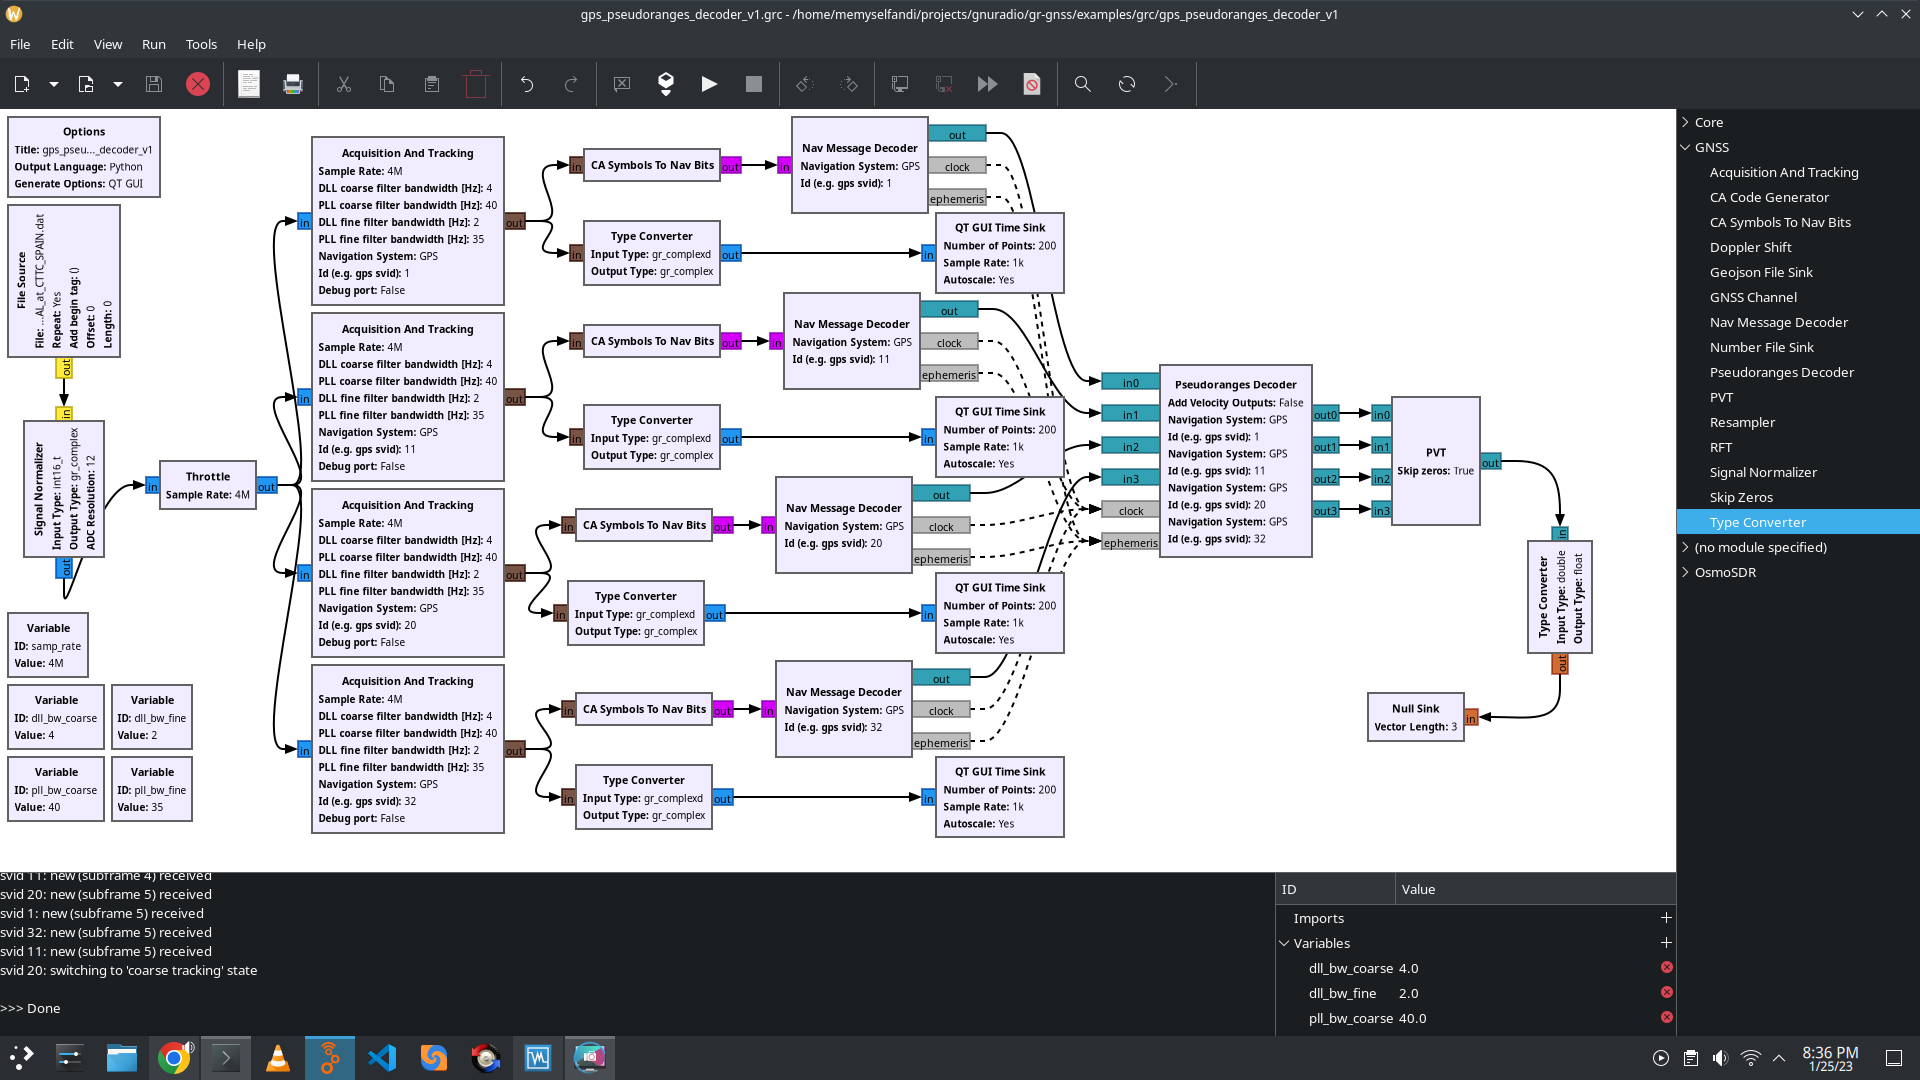
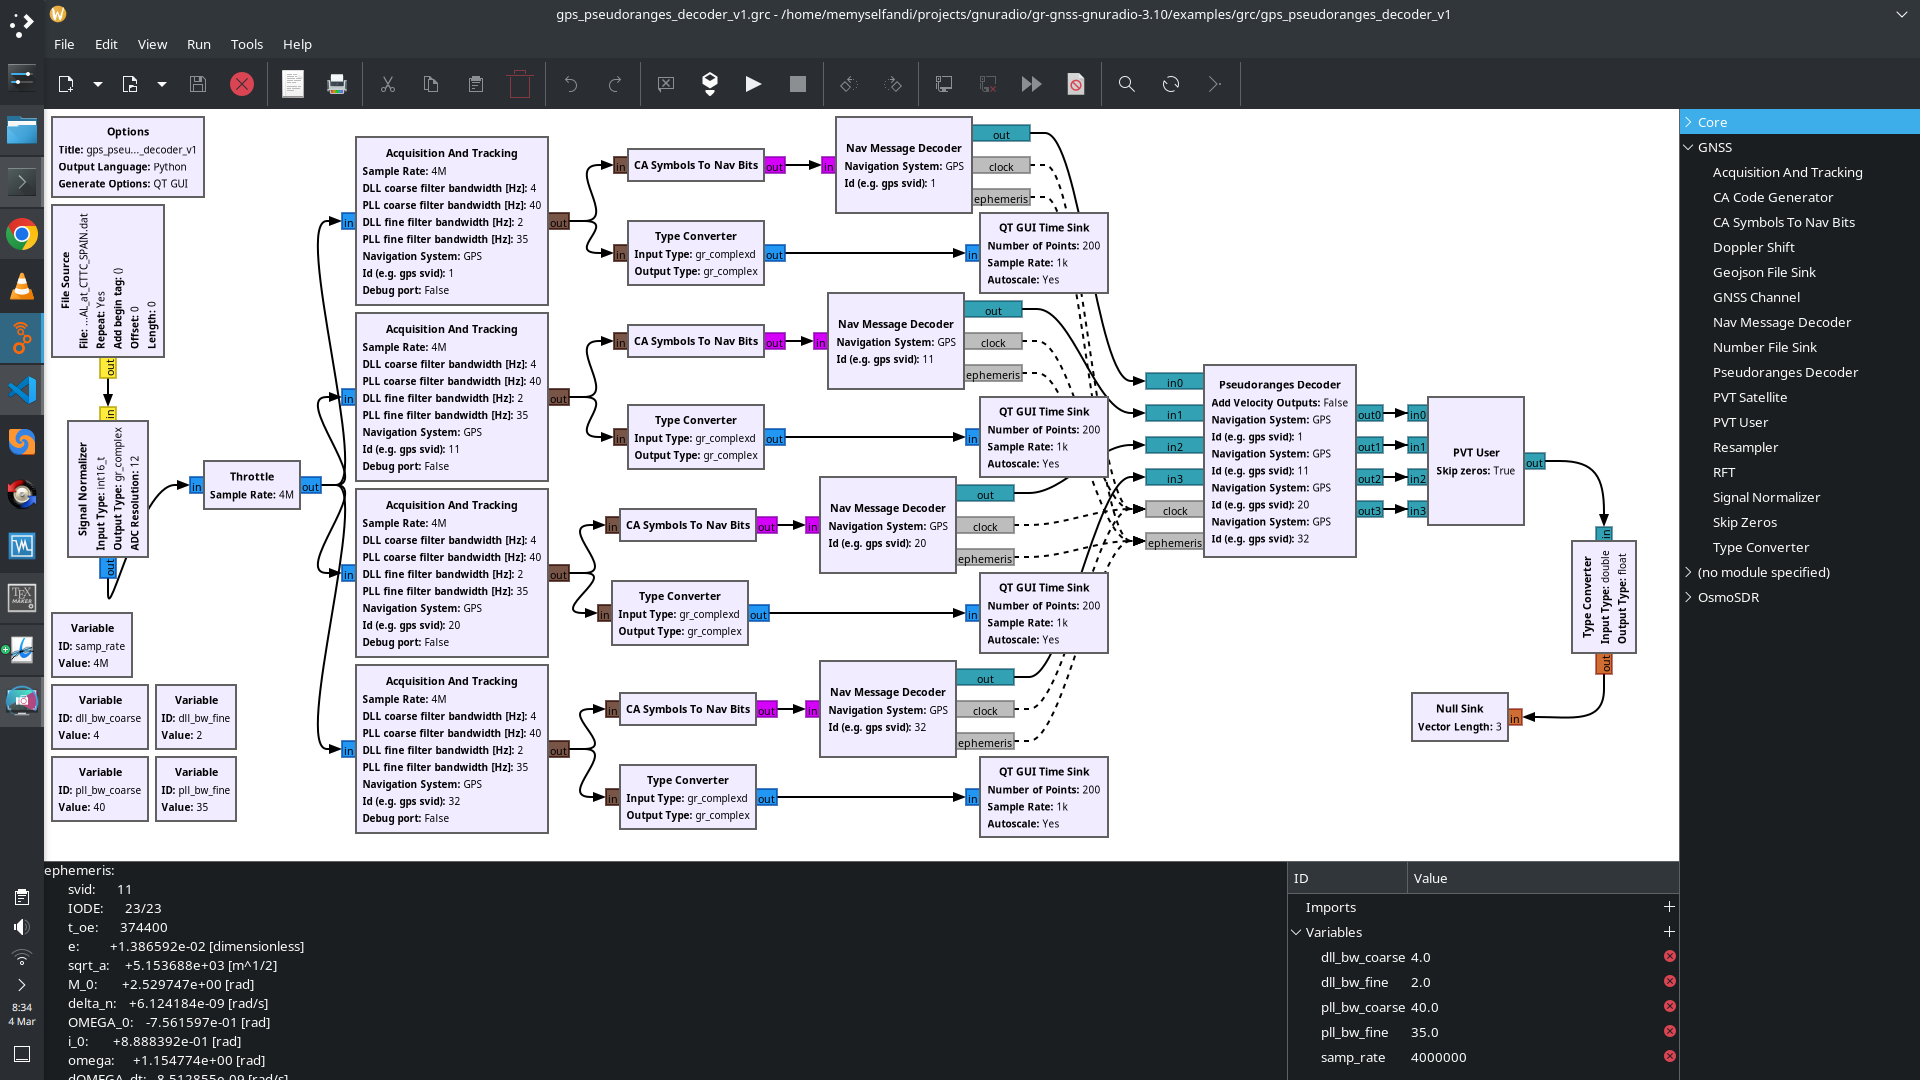
Rename 'pvt' to 'pvt_user'

diff --git a/examples/grc/gps_pseudoranges_decoder_v1/gps_pseudoranges_decoder_v1.py b/examples/grc/gps_pseudoranges_decoder_v1/gps_pseudoranges_decoder_v1.py
@@ -294,7 +294,7 @@ class gps_pseudoranges_decoder_v1(gr.top_block, Qt.QWidget):
         self.gnss_type_converter_0_0_0 = gnss.fc64_to_fc32(1)
         self.gnss_type_converter_0 = gnss.f64_to_f32(3)
         self.gnss_signal_normalizer_0 = gnss.signal_normalizer_s16_fc32(1, 12)
-        self.gnss_pvt_0 = gnss.pvt(True)
+        self.gnss_pvt_user_0 = gnss.pvt_user(True)
         self.gnss_pseudoranges_decoder_0 = gnss.pseudoranges_decoder(False)
         self.gnss_pseudoranges_decoder_0.set_acq_params(0, gnss.NAVIGATION_SYSTEM_GPS, 1)
         self.gnss_pseudoranges_decoder_0.set_acq_params(1, gnss.NAVIGATION_SYSTEM_GPS, 11)
@@ -326,21 +326,21 @@ class gps_pseudoranges_decoder_v1(gr.top_block, Qt.QWidget):
         self.gnss_acquisition_and_tracking_0.set_acq_params(gnss.NAVIGATION_SYSTEM_GPS, 1)
         self.blocks_throttle_0 = blocks.throttle(gr.sizeof_gr_complex*1, samp_rate,True)
         self.blocks_null_sink_0_0_0_0 = blocks.null_sink(gr.sizeof_float*3)
-        self.blocks_file_source_0 = blocks.file_source(gr.sizeof_short*1, '/home/memyselfandi/projects/gnss-sdr-files/2013_04_04_GNSS_SIGNAL_at_CTTC_SPAIN/2013_04_04_GNSS_SIGNAL_at_CTTC_SPAIN.dat', True, 0, 0)
+        self.blocks_file_source_0 = blocks.file_source(gr.sizeof_short*1, '/home/memyselfandi/projects/sdr-files/gnss/2013_04_04_GNSS_SIGNAL_at_CTTC_SPAIN/2013_04_04_GNSS_SIGNAL_at_CTTC_SPAIN.dat', True, 0, 0)
         self.blocks_file_source_0.set_begin_tag(pmt.PMT_NIL)
 
 
         ##################################################
         # Connections
         ##################################################
-        self.msg_connect((self.gnss_nav_message_decoder_0, 'ephemeris'), (self.gnss_pseudoranges_decoder_0, 'ephemeris'))
         self.msg_connect((self.gnss_nav_message_decoder_0, 'clock'), (self.gnss_pseudoranges_decoder_0, 'clock'))
-        self.msg_connect((self.gnss_nav_message_decoder_0_0, 'ephemeris'), (self.gnss_pseudoranges_decoder_0, 'ephemeris'))
+        self.msg_connect((self.gnss_nav_message_decoder_0, 'ephemeris'), (self.gnss_pseudoranges_decoder_0, 'ephemeris'))
         self.msg_connect((self.gnss_nav_message_decoder_0_0, 'clock'), (self.gnss_pseudoranges_decoder_0, 'clock'))
-        self.msg_connect((self.gnss_nav_message_decoder_0_0_0, 'clock'), (self.gnss_pseudoranges_decoder_0, 'clock'))
+        self.msg_connect((self.gnss_nav_message_decoder_0_0, 'ephemeris'), (self.gnss_pseudoranges_decoder_0, 'ephemeris'))
         self.msg_connect((self.gnss_nav_message_decoder_0_0_0, 'ephemeris'), (self.gnss_pseudoranges_decoder_0, 'ephemeris'))
-        self.msg_connect((self.gnss_nav_message_decoder_0_0_0_0, 'ephemeris'), (self.gnss_pseudoranges_decoder_0, 'ephemeris'))
+        self.msg_connect((self.gnss_nav_message_decoder_0_0_0, 'clock'), (self.gnss_pseudoranges_decoder_0, 'clock'))
         self.msg_connect((self.gnss_nav_message_decoder_0_0_0_0, 'clock'), (self.gnss_pseudoranges_decoder_0, 'clock'))
+        self.msg_connect((self.gnss_nav_message_decoder_0_0_0_0, 'ephemeris'), (self.gnss_pseudoranges_decoder_0, 'ephemeris'))
         self.connect((self.blocks_file_source_0, 0), (self.gnss_signal_normalizer_0, 0))
         self.connect((self.blocks_throttle_0, 0), (self.gnss_acquisition_and_tracking_0, 0))
         self.connect((self.blocks_throttle_0, 0), (self.gnss_acquisition_and_tracking_0_0, 0))
@@ -362,11 +362,11 @@ class gps_pseudoranges_decoder_v1(gr.top_block, Qt.QWidget):
         self.connect((self.gnss_nav_message_decoder_0_0, 0), (self.gnss_pseudoranges_decoder_0, 1))
         self.connect((self.gnss_nav_message_decoder_0_0_0, 0), (self.gnss_pseudoranges_decoder_0, 2))
         self.connect((self.gnss_nav_message_decoder_0_0_0_0, 0), (self.gnss_pseudoranges_decoder_0, 3))
-        self.connect((self.gnss_pseudoranges_decoder_0, 2), (self.gnss_pvt_0, 2))
-        self.connect((self.gnss_pseudoranges_decoder_0, 3), (self.gnss_pvt_0, 3))
-        self.connect((self.gnss_pseudoranges_decoder_0, 1), (self.gnss_pvt_0, 1))
-        self.connect((self.gnss_pseudoranges_decoder_0, 0), (self.gnss_pvt_0, 0))
-        self.connect((self.gnss_pvt_0, 0), (self.gnss_type_converter_0, 0))
+        self.connect((self.gnss_pseudoranges_decoder_0, 0), (self.gnss_pvt_user_0, 0))
+        self.connect((self.gnss_pseudoranges_decoder_0, 1), (self.gnss_pvt_user_0, 1))
+        self.connect((self.gnss_pseudoranges_decoder_0, 2), (self.gnss_pvt_user_0, 2))
+        self.connect((self.gnss_pseudoranges_decoder_0, 3), (self.gnss_pvt_user_0, 3))
+        self.connect((self.gnss_pvt_user_0, 0), (self.gnss_type_converter_0, 0))
         self.connect((self.gnss_signal_normalizer_0, 0), (self.blocks_throttle_0, 0))
         self.connect((self.gnss_type_converter_0, 0), (self.blocks_null_sink_0_0_0_0, 0))
         self.connect((self.gnss_type_converter_0_0_0, 0), (self.qtgui_time_sink_x_0_0_0, 0))

diff --git a/examples/grc/gps_rft_v2/gps_rft_v2.py b/examples/grc/gps_rft_v2/gps_rft_v2.py
@@ -295,7 +295,7 @@ class gps_rft_v2(gr.top_block, Qt.QWidget):
         self.gnss_signal_normalizer_0 = gnss.signal_normalizer_s16_fc32(1, 12)
         self.gnss_rft_0 = gnss.rft()
         self.gnss_rft_0.set_transformation(gnss.RFT_ECEF_TO_GCS)
-        self.gnss_pvt_0 = gnss.pvt(True)
+        self.gnss_pvt_user_0 = gnss.pvt_user(True)
         self.gnss_pseudoranges_decoder_0 = gnss.pseudoranges_decoder(False)
         self.gnss_pseudoranges_decoder_0.set_acq_params(0, gnss.NAVIGATION_SYSTEM_GPS, 1)
         self.gnss_pseudoranges_decoder_0.set_acq_params(1, gnss.NAVIGATION_SYSTEM_GPS, 11)
@@ -315,7 +315,7 @@ class gps_rft_v2(gr.top_block, Qt.QWidget):
         self.gnss_gnss_channel_0.set_acq_params(gnss.NAVIGATION_SYSTEM_GPS, 32)
         self.gnss_geojson_file_sink_1 = gnss.geojson_file_sink("default")
         self.blocks_throttle_0 = blocks.throttle(gr.sizeof_gr_complex*1, samp_rate,True)
-        self.blocks_file_source_0 = blocks.file_source(gr.sizeof_short*1, '/home/memyselfandi/projects/gnss-sdr-files/2013_04_04_GNSS_SIGNAL_at_CTTC_SPAIN/2013_04_04_GNSS_SIGNAL_at_CTTC_SPAIN.dat', True, 0, 0)
+        self.blocks_file_source_0 = blocks.file_source(gr.sizeof_short*1, '/home/memyselfandi/projects/sdr-files/gnss/2013_04_04_GNSS_SIGNAL_at_CTTC_SPAIN/2013_04_04_GNSS_SIGNAL_at_CTTC_SPAIN.dat', True, 0, 0)
         self.blocks_file_source_0.set_begin_tag(pmt.PMT_NIL)
 
 
@@ -324,12 +324,12 @@ class gps_rft_v2(gr.top_block, Qt.QWidget):
         ##################################################
         self.msg_connect((self.gnss_gnss_channel_0, 'ephemeris'), (self.gnss_pseudoranges_decoder_0, 'ephemeris'))
         self.msg_connect((self.gnss_gnss_channel_0, 'clock'), (self.gnss_pseudoranges_decoder_0, 'clock'))
-        self.msg_connect((self.gnss_gnss_channel_0_0, 'ephemeris'), (self.gnss_pseudoranges_decoder_0, 'ephemeris'))
         self.msg_connect((self.gnss_gnss_channel_0_0, 'clock'), (self.gnss_pseudoranges_decoder_0, 'clock'))
-        self.msg_connect((self.gnss_gnss_channel_0_0_0, 'clock'), (self.gnss_pseudoranges_decoder_0, 'clock'))
+        self.msg_connect((self.gnss_gnss_channel_0_0, 'ephemeris'), (self.gnss_pseudoranges_decoder_0, 'ephemeris'))
         self.msg_connect((self.gnss_gnss_channel_0_0_0, 'ephemeris'), (self.gnss_pseudoranges_decoder_0, 'ephemeris'))
-        self.msg_connect((self.gnss_gnss_channel_0_0_0_0, 'ephemeris'), (self.gnss_pseudoranges_decoder_0, 'ephemeris'))
+        self.msg_connect((self.gnss_gnss_channel_0_0_0, 'clock'), (self.gnss_pseudoranges_decoder_0, 'clock'))
         self.msg_connect((self.gnss_gnss_channel_0_0_0_0, 'clock'), (self.gnss_pseudoranges_decoder_0, 'clock'))
+        self.msg_connect((self.gnss_gnss_channel_0_0_0_0, 'ephemeris'), (self.gnss_pseudoranges_decoder_0, 'ephemeris'))
         self.connect((self.blocks_file_source_0, 0), (self.gnss_signal_normalizer_0, 0))
         self.connect((self.blocks_throttle_0, 0), (self.gnss_gnss_channel_0, 0))
         self.connect((self.blocks_throttle_0, 0), (self.gnss_gnss_channel_0_0, 0))
@@ -343,11 +343,11 @@ class gps_rft_v2(gr.top_block, Qt.QWidget):
         self.connect((self.gnss_gnss_channel_0_0_0, 1), (self.gnss_type_converter_0_0_0, 0))
         self.connect((self.gnss_gnss_channel_0_0_0_0, 0), (self.gnss_pseudoranges_decoder_0, 0))
         self.connect((self.gnss_gnss_channel_0_0_0_0, 1), (self.gnss_type_converter_0_0, 0))
-        self.connect((self.gnss_pseudoranges_decoder_0, 0), (self.gnss_pvt_0, 0))
-        self.connect((self.gnss_pseudoranges_decoder_0, 3), (self.gnss_pvt_0, 3))
-        self.connect((self.gnss_pseudoranges_decoder_0, 1), (self.gnss_pvt_0, 1))
-        self.connect((self.gnss_pseudoranges_decoder_0, 2), (self.gnss_pvt_0, 2))
-        self.connect((self.gnss_pvt_0, 0), (self.gnss_rft_0, 0))
+        self.connect((self.gnss_pseudoranges_decoder_0, 1), (self.gnss_pvt_user_0, 1))
+        self.connect((self.gnss_pseudoranges_decoder_0, 3), (self.gnss_pvt_user_0, 3))
+        self.connect((self.gnss_pseudoranges_decoder_0, 0), (self.gnss_pvt_user_0, 0))
+        self.connect((self.gnss_pseudoranges_decoder_0, 2), (self.gnss_pvt_user_0, 2))
+        self.connect((self.gnss_pvt_user_0, 0), (self.gnss_rft_0, 0))
         self.connect((self.gnss_rft_0, 0), (self.gnss_geojson_file_sink_1, 0))
         self.connect((self.gnss_signal_normalizer_0, 0), (self.blocks_throttle_0, 0))
         self.connect((self.gnss_type_converter_0_0, 0), (self.qtgui_time_sink_x_0_0_0, 0))

diff --git a/examples/grc/gps_rft_v1/gps_rft_v1.py b/examples/grc/gps_rft_v1/gps_rft_v1.py
@@ -188,7 +188,7 @@ class gps_rft_v1(gr.top_block, Qt.QWidget):
         self.gnss_signal_normalizer_0 = gnss.signal_normalizer_s16_fc32(1, 12)
         self.gnss_rft_0 = gnss.rft()
         self.gnss_rft_0.set_transformation(gnss.RFT_ECEF_TO_GCS)
-        self.gnss_pvt_0_0 = gnss.pvt(True)
+        self.gnss_pvt_user_0 = gnss.pvt_user(True)
         self.gnss_pseudoranges_decoder_0 = gnss.pseudoranges_decoder(False)
         self.gnss_pseudoranges_decoder_0.set_acq_params(0, gnss.NAVIGATION_SYSTEM_GPS, 1)
         self.gnss_pseudoranges_decoder_0.set_acq_params(1, gnss.NAVIGATION_SYSTEM_GPS, 11)
@@ -220,7 +220,7 @@ class gps_rft_v1(gr.top_block, Qt.QWidget):
         self.gnss_acquisition_and_tracking_0 = gnss.acquisition_and_tracking(samp_rate, dll_bw_coarse, pll_bw_coarse, dll_bw_fine, pll_bw_fine)
         self.gnss_acquisition_and_tracking_0.set_acq_params(gnss.NAVIGATION_SYSTEM_GPS, 1)
         self.blocks_throttle_0 = blocks.throttle(gr.sizeof_gr_complex*1, samp_rate,True)
-        self.blocks_file_source_0 = blocks.file_source(gr.sizeof_short*1, '/home/memyselfandi/projects/gnss-sdr-files/2013_04_04_GNSS_SIGNAL_at_CTTC_SPAIN/2013_04_04_GNSS_SIGNAL_at_CTTC_SPAIN.dat', True, 0, 0)
+        self.blocks_file_source_0 = blocks.file_source(gr.sizeof_short*1, '/home/memyselfandi/projects/sdr-files/gnss/2013_04_04_GNSS_SIGNAL_at_CTTC_SPAIN/2013_04_04_GNSS_SIGNAL_at_CTTC_SPAIN.dat', True, 0, 0)
         self.blocks_file_source_0.set_begin_tag(pmt.PMT_NIL)
         self.blocks_complex_to_imag_0 = blocks.complex_to_imag(1)
 
@@ -256,11 +256,11 @@ class gps_rft_v1(gr.top_block, Qt.QWidget):
         self.connect((self.gnss_nav_message_decoder_0_0, 0), (self.gnss_pseudoranges_decoder_0, 1))
         self.connect((self.gnss_nav_message_decoder_0_0_0, 0), (self.gnss_pseudoranges_decoder_0, 2))
         self.connect((self.gnss_nav_message_decoder_0_0_0_0, 0), (self.gnss_pseudoranges_decoder_0, 3))
-        self.connect((self.gnss_pseudoranges_decoder_0, 1), (self.gnss_pvt_0_0, 1))
-        self.connect((self.gnss_pseudoranges_decoder_0, 0), (self.gnss_pvt_0_0, 0))
-        self.connect((self.gnss_pseudoranges_decoder_0, 2), (self.gnss_pvt_0_0, 2))
-        self.connect((self.gnss_pseudoranges_decoder_0, 3), (self.gnss_pvt_0_0, 3))
-        self.connect((self.gnss_pvt_0_0, 0), (self.gnss_rft_0, 0))
+        self.connect((self.gnss_pseudoranges_decoder_0, 3), (self.gnss_pvt_user_0, 3))
+        self.connect((self.gnss_pseudoranges_decoder_0, 2), (self.gnss_pvt_user_0, 2))
+        self.connect((self.gnss_pseudoranges_decoder_0, 1), (self.gnss_pvt_user_0, 1))
+        self.connect((self.gnss_pseudoranges_decoder_0, 0), (self.gnss_pvt_user_0, 0))
+        self.connect((self.gnss_pvt_user_0, 0), (self.gnss_rft_0, 0))
         self.connect((self.gnss_rft_0, 0), (self.gnss_geojson_file_sink_1, 0))
         self.connect((self.gnss_signal_normalizer_0, 0), (self.blocks_throttle_0, 0))
         self.connect((self.gnss_type_converter_0_0, 0), (self.qtgui_time_sink_x_0_0_0_0, 0))

diff --git a/lib/pvt_user_impl.cc b/lib/pvt_user_impl.cc
@@ -6,7 +6,7 @@
  */
 
 #include <gnuradio/io_signature.h>
-#include "pvt_impl.h"
+#include "pvt_user_impl.h"
 #include "tags.h"
 
 namespace gr {
@@ -15,15 +15,15 @@ namespace gr {
     /*===========================================================================*\
     * public function definitions
     \*===========================================================================*/
-    pvt::sptr
-    pvt::make(bool skip_zeros)
+    pvt_user::sptr
+    pvt_user::make(bool skip_zeros)
     {
-      return gnuradio::make_block_sptr<pvt_impl<vector3d, vector3d>>(skip_zeros);
+      return gnuradio::make_block_sptr<pvt_user_impl<vector3d, vector3d>>(skip_zeros);
     }
 
     template<typename ITYPE, typename OTYPE>
-    pvt_impl<ITYPE, OTYPE>::pvt_impl(bool skip_zeros)
-      : gr::block("pvt",
+    pvt_user_impl<ITYPE, OTYPE>::pvt_user_impl(bool skip_zeros)
+      : gr::block("pvt_user",
                   gr::io_signature::make(1, MAX_STREAMS, sizeof(ITYPE) * IVLEN),
                   gr::io_signature::make(1, 1, sizeof(OTYPE) * OVLEN)),
       d_hint{},
@@ -33,13 +33,13 @@ namespace gr {
     }
 
     template<typename ITYPE, typename OTYPE>
-    pvt_impl<ITYPE, OTYPE>::~pvt_impl()
+    pvt_user_impl<ITYPE, OTYPE>::~pvt_user_impl()
     {
     }
 
     template<typename ITYPE, typename OTYPE>
     void
-    pvt_impl<ITYPE, OTYPE>::forecast(int noutput_items, gr_vector_int &ninput_items_required)
+    pvt_user_impl<ITYPE, OTYPE>::forecast(int noutput_items, gr_vector_int &ninput_items_required)
     {
      // 1 output item requires 1 item at input
       int nrequired = noutput_items;
@@ -50,7 +50,7 @@ namespace gr {
 
     template<typename ITYPE, typename OTYPE>
     int
-    pvt_impl<ITYPE, OTYPE>::general_work(int noutput_items,
+    pvt_user_impl<ITYPE, OTYPE>::general_work(int noutput_items,
                  gr_vector_int &ninput_items,
                  gr_vector_const_void_star &input_items,
                  gr_vector_void_star &output_items)
@@ -93,14 +93,14 @@ namespace gr {
           vector3d efec_user_position;
 
 #define CASE(x) case x: pvt_utils::get<x>(satelites, d_hint, &efec_user_position, NULL, NULL)
-        switch (N) {
-          CASE(4); break;
-          CASE(5); break;
-          CASE(6); break;
-          CASE(7); break;
-          CASE(8); break;
-          default: break;
-        }
+          switch (N) {
+            CASE(4); break;
+            CASE(5); break;
+            CASE(6); break;
+            CASE(7); break;
+            CASE(8); break;
+            default: break;
+          }
 #undef CASE
 
           optr0[nproduced] = efec_user_position;

diff --git a/python/gnss/bindings/pvt_user_python.cc b/python/gnss/bindings/pvt_user_python.cc
@@ -13,8 +13,8 @@
 /* If manual edits are made, the following tags should be modified accordingly.    */
 /* BINDTOOL_GEN_AUTOMATIC(0)                                                       */
 /* BINDTOOL_USE_PYGCCXML(0)                                                        */
-/* BINDTOOL_HEADER_FILE(pvt.h)                                                     */
-/* BINDTOOL_HEADER_FILE_HASH(3e494822c6dc3a98dee7213d33f00d3f)                     */
+/* BINDTOOL_HEADER_FILE(pvt_user.h)                                                */
+/* BINDTOOL_HEADER_FILE_HASH(57e1efb9aa45198474b845f823f21169)                     */
 /***********************************************************************************/
 
 #include <pybind11/complex.h>
@@ -23,21 +23,21 @@
 
 namespace py = pybind11;
 
-#include <gnuradio/gnss/pvt.h>
-#include <pvt_pydoc.h>
+#include <gnuradio/gnss/pvt_user.h>
+#include <pvt_user_pydoc.h>
 
-void bind_pvt(py::module& m)
+void bind_pvt_user(py::module& m)
 {
-    using pvt = gr::gnss::pvt;
+    using pvt_user = gr::gnss::pvt_user;
 
-    py::class_<pvt,
+    py::class_<pvt_user,
                gr::block,
                gr::basic_block,
-               std::shared_ptr<pvt>>(m, "pvt", D(pvt))
+               std::shared_ptr<pvt_user>>(m, "pvt_user", D(pvt_user))
         .def(
-            py::init(&pvt::make),
+            py::init(&pvt_user::make),
             py::arg("skip_zeros"),
-            D(pvt,make)
+            D(pvt_user,make)
         );
 }
 

diff --git a/python/gnss/bindings/python_bindings.cc b/python/gnss/bindings/python_bindings.cc
@@ -32,13 +32,13 @@ namespace py = pybind11;
     void bind_resampler(py::module& m);
     void bind_gnss_channel(py::module& m);
     void bind_pseudoranges_decoder(py::module& m);
-    void bind_pvt(py::module& m);
     void bind_rft_type(py::module& m);
     void bind_rft(py::module& m);
     void bind_skip_zeros(py::module& m);
     void bind_doppler_shift(py::module& m);
     void bind_geojson_file_sink(py::module& m);
     void bind_number_file_sink(py::module& m);
+    void bind_pvt_user(py::module& m);
     void bind_pvt_satellite(py::module& m);
 // ) END BINDING_FUNCTION_PROTOTYPES
 
@@ -79,13 +79,13 @@ PYBIND11_MODULE(gnss_python, m)
     bind_resampler(m);
     bind_gnss_channel(m);
     bind_pseudoranges_decoder(m);
-    bind_pvt(m);
     bind_rft_type(m);
     bind_rft(m);
     bind_skip_zeros(m);
     bind_doppler_shift(m);
     bind_geojson_file_sink(m);
     bind_number_file_sink(m);
+    bind_pvt_user(m);
     bind_pvt_satellite(m);
     // ) END BINDING_FUNCTION_CALLS
 }

diff --git a/include/gnuradio/gnss/pvt_user.h b/include/gnuradio/gnss/pvt_user.h
@@ -5,8 +5,8 @@
  * SPDX-License-Identifier: GPL-3.0-or-later
  */
 
-#ifndef INCLUDED_GNSS_PVT_H
-#define INCLUDED_GNSS_PVT_H
+#ifndef INCLUDED_GNSS_PVT_USER_H
+#define INCLUDED_GNSS_PVT_USER_H
 
 #include <gnuradio/block.h>
 #include <gnuradio/gnss/api.h>
@@ -18,12 +18,12 @@ namespace gr {
      * \brief <+description of block+>
      * \ingroup gnss
      */
-    struct GNSS_API pvt : virtual public gr::block
+    struct GNSS_API pvt_user : virtual public gr::block
     {
-      using sptr = std::shared_ptr<pvt>;
+      using sptr = std::shared_ptr<pvt_user>;
 
       /*!
-       * \brief Return a shared_ptr to a new instance of gnss::pvt block.
+       * \brief Return a shared_ptr to a new instance of gnss::pvt_user block.
        */
       static sptr make(bool skip_zeros = true);
     };
@@ -31,4 +31,4 @@ namespace gr {
   } // namespace gnss
 } // namespace gr
 
-#endif /* INCLUDED_GNSS_PVT_H */
+#endif /* INCLUDED_GNSS_PVT_USER_H */

diff --git a/lib/pvt_user_impl.h b/lib/pvt_user_impl.h
@@ -5,10 +5,10 @@
  * SPDX-License-Identifier: GPL-3.0-or-later
  */
 
-#ifndef INCLUDED_GNSS_PVT_IMPL_H
-#define INCLUDED_GNSS_PVT_IMPL_H
+#ifndef INCLUDED_GNSS_PVT_USER_IMPL_H
+#define INCLUDED_GNSS_PVT_USER_IMPL_H
 
-#include <gnuradio/gnss/pvt.h>
+#include <gnuradio/gnss/pvt_user.h>
 #include "pvt_utils.h"
 
 #define IVLEN 1
@@ -19,11 +19,11 @@ namespace gr {
   namespace gnss {
 
     template<typename ITYPE, typename OTYPE>
-    class pvt_impl : public pvt
+    class pvt_user_impl : public pvt_user
     {
     public:
-      pvt_impl(bool skip_zeros);
-      ~pvt_impl();
+      pvt_user_impl(bool skip_zeros);
+      ~pvt_user_impl();
 
       void forecast(int noutput_items, gr_vector_int &ninput_items_required);
 
@@ -40,4 +40,4 @@ namespace gr {
   } // namespace gnss
 } // namespace gr
 
-#endif /* INCLUDED_GNSS_PVT_IMPL_H */
+#endif /* INCLUDED_GNSS_PVT_USER_IMPL_H */

diff --git a/python/gnss/bindings/docstrings/pvt_user_pydoc_template.h b/python/gnss/bindings/docstrings/pvt_user_pydoc_template.h
@@ -16,12 +16,12 @@
 
 
 
- static const char *__doc_gr_gnss_pvt = R"doc()doc";
+ static const char *__doc_gr_gnss_pvt_user = R"doc()doc";
 
 
- static const char *__doc_gr_gnss_pvt_pvt = R"doc()doc";
+ static const char *__doc_gr_gnss_pvt_user_pvt_user = R"doc()doc";
 
 
- static const char *__doc_gr_gnss_pvt_make = R"doc()doc";
+ static const char *__doc_gr_gnss_pvt_user_make = R"doc()doc";
 
   

diff --git a/README.md b/README.md
@@ -25,7 +25,7 @@ At this stage of development following blocks are prepared:
     All these data are produced at one common time base.
     It requires ephemeris and clock data from navigation messages
     (of course from the same satellites as the pseudoranges measurements).
-- pvt
+- pvt_user
   - Takes ECEF position and associated pseudorange from N satellies (at least 4 required)
     and produces user/receiver ECEF position. Velocity and time to be added in the future.
 - pvt_satellite
